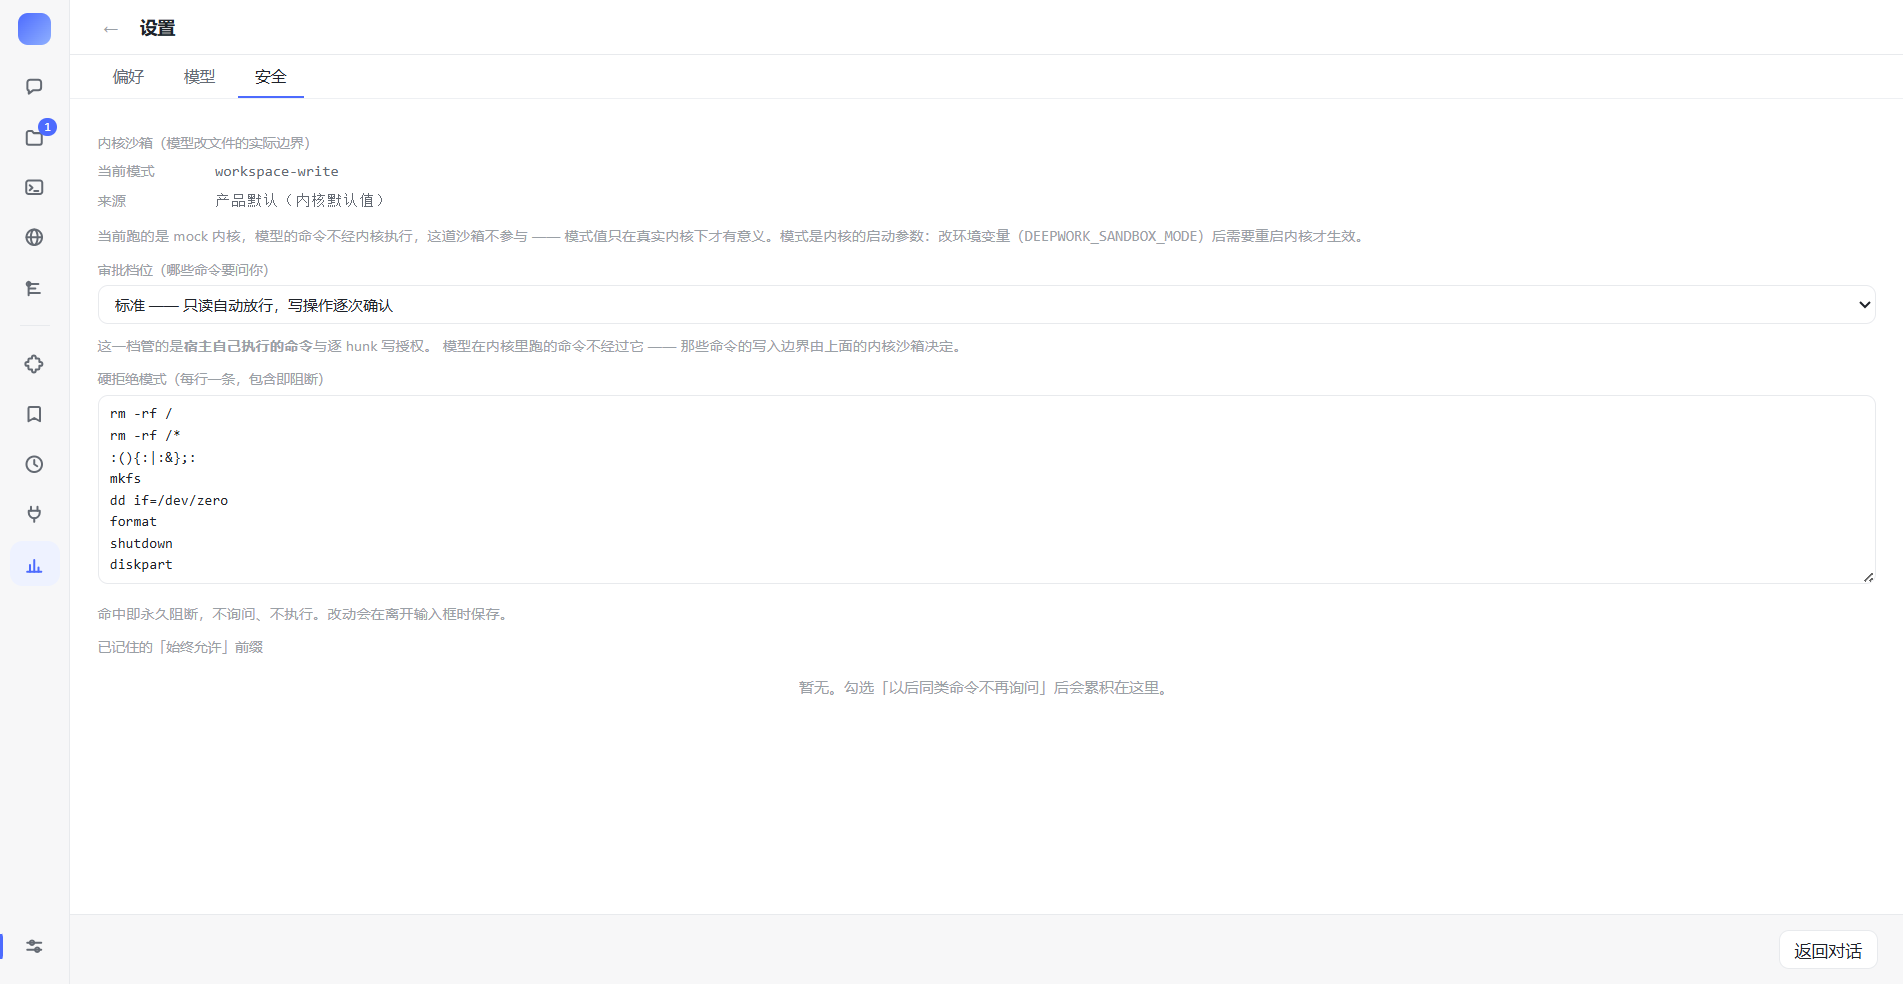
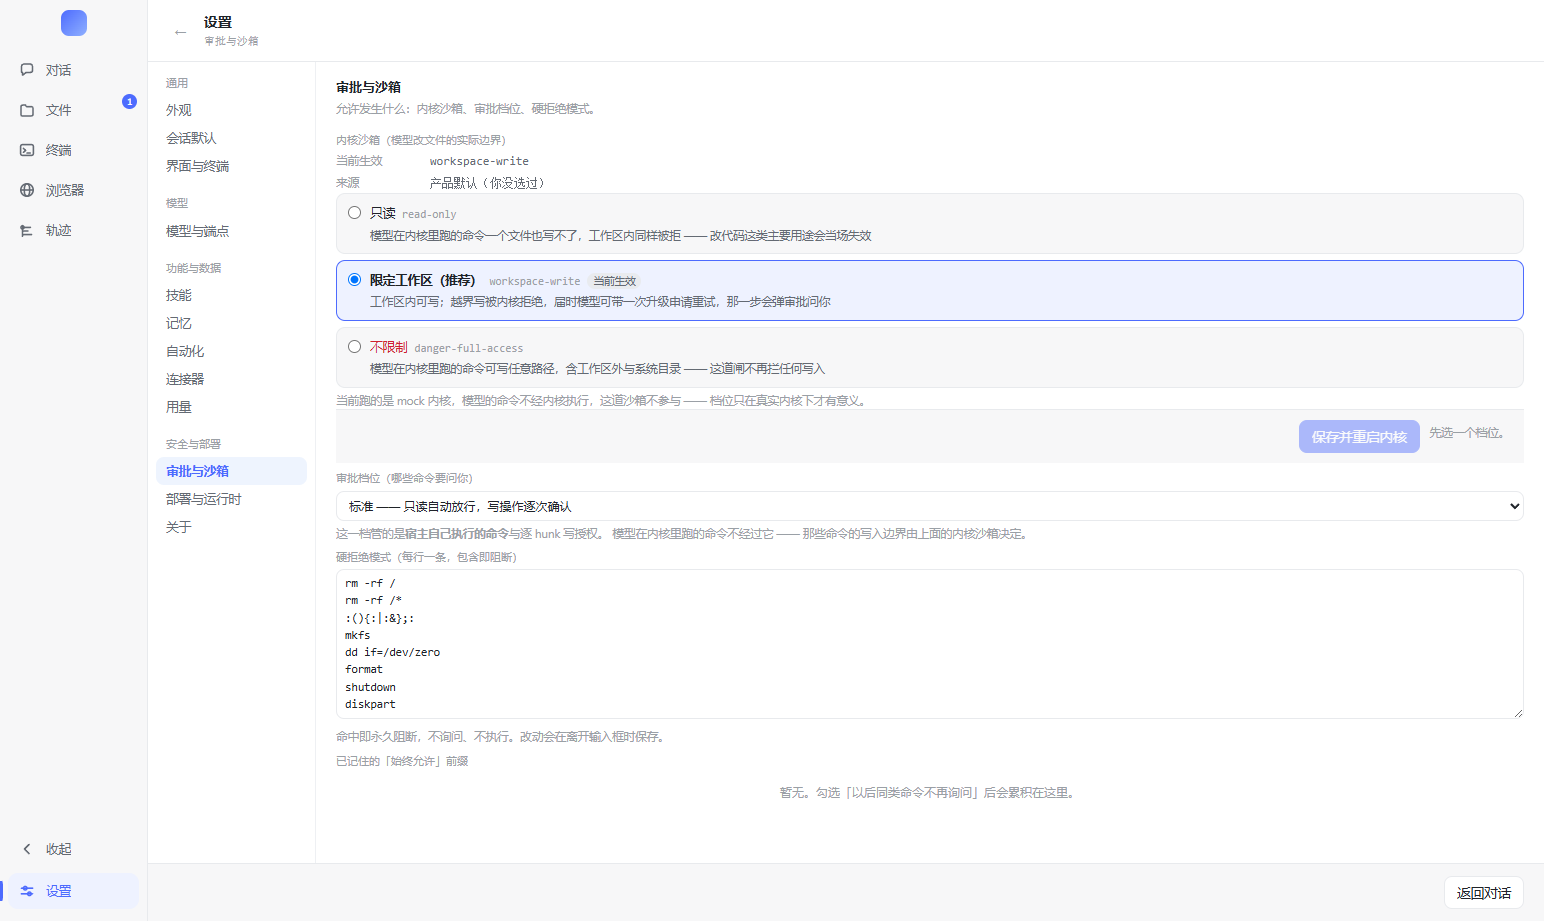
docs: 本轮六段 DEVLOG + 布局纪律改写 + ROADMAP §8.8 第二项收口
- `CONVENTIONS.md`「界面布局纪律」整段改写：rail 只放工作台视图、管理类进设置页、
  一页一个入口、`embedded` 只收外壳、`lastView` / `settingsSection` 各留一条恢复纪律，
  以及新增的**「契约值域收窄时读的路径折回、写的路径拒绝」**。
- `ROADMAP.md` §8.8 第 2 项：⏳ 未开始 → ✅ 完成（附分组与 12 节清单、`AppView` 收窄口径、
  新套件 35 项）。
- `DEVLOG.md` 本轮六段：目标 / 现象与根因（值域收窄那条静默失败）/ 改动表 /
  顺带修掉的 CSS 变量缺陷 / 验证（35 项 + verify exit 0 + 九张截图回执）/
  踩坑与教训 / 遗留 / 下一步。
- 截图入库（`artifacts/` 在 .gitignore 里，需 `-f`）：本轮 DEVLOG 引用的九张渲染证据
  `ui-settings` / `ui-settings-prefs` / `ui-settings-security` / `ui-terminal-shell` /
  `ui-skills` / `ui-memory` / `ui-schedule` / `ui-connectors` / `ui-usage`
  （外加上一轮引用但当时没入库的 `ui-terminal.png`，补上这条追不到证据的引用）。

diff --git a/docs/DEVLOG.md b/docs/DEVLOG.md
@@ -3774,3 +3774,116 @@ bash tools/capture.sh terminal terminal-shell
 连接器 / 用量这些**管理类页面**从活动栏一级入口收进设置；活动栏只留工作台四项
 （对话 / 文件 / 终端 / 浏览器 / 轨迹）。收完之后再做流式的观感优化。
 
+## 2026-09-18 · M3 前置 · 设置改左导航分组：管理类页面收进设置，活动栏只剩工作台
+
+**目标**
+
+用户拍板的顺序是 **先终端 → 再设置 → 最后流式**，上一轮交完终端，本轮做第二件：
+设置页的摆布改成参考形态（左导航分组），并把技能 / 记忆 / 自动化 / 连接器 / 用量
+这些**管理类页面**从活动栏一级入口收进设置 —— 活动栏只留工作台
+（对话 / 文件 / 终端 / 浏览器 / 轨迹）+ 底部的设置。用户的另一句话是
+「有些指令就是配置项，应该转到设置中去」。
+
+**现象与根因**
+
+活动栏分两组已经很挤：上组「正在发生什么」是天天点的，下组「配置与账本」是
+偶尔来配一次的，两者挤同一根栏的代价是栏随功能增长而变长 —— 而这根栏当初被选中
+的理由恰恰是「第 10 个功能与第 1 个占用同样空间」。设置页那边则是另一种挤：
+顶部三页签（偏好 / 模型 / 安全）装得下三节，装不下要收进来的五节。
+
+收窄 `AppView` 引出一条**升级路径上的静默失败**，这是本轮最该记住的一条：
+
+- 一台机器上的 `config.json` 是上一版写的，里面存着 `"lastView": "skills"`。
+  `getConfig` 只做「默认值 + 磁盘值」的按字段合并 —— 这能兜住**少字段**，
+  兜不住**值域变窄**。原样交给渲染层的结果是：启动后主区**一片空白**，
+  没有任何报错，原因只写在配置文件里。用户能看到的只有「界面坏了」。
+
+**改动**
+
+| 位置 | 内容 |
+|---|---|
+| `packages/protocol/src/config.ts` | `AppView` 收窄为 `APP_VIEWS`（六个，含 settings）；新增 `isAppView()`；新增设置分节契约：`SETTINGS_SECTIONS`（12 节）/ `SETTINGS_GROUPS`（4 组）/ `SETTINGS_SECTION_LABEL` / `SETTINGS_SECTION_NOTE` / `DEFAULT_SETTINGS_SECTION` / `isSettingsSection()`；`AppConfig.settingsSection` + `DEFAULT_CONFIG`；`CONFIG_FIELDS.lastView.values` 改用 `APP_VIEWS`（原来是手抄一份视图名清单 —— 第二份真源） |
+| `packages/core-host/src/host.ts` | `getConfig`：磁盘上的 `lastView` / `settingsSection` 不合法时**折回**默认并在日志里点名（容忍手改过的旧文件）；`setConfig`：两者不合法时**拒绝**，错误里写清合法值与「这一页去哪了」 |
+| `apps/desktop/src/components/SettingsNav.tsx` | **新增**：左导航。分组与条目名全部从契约渲染，JSX 里一个字符串都没有 |
+| `apps/desktop/src/components/SettingsPanel.tsx` | 从「三页签 + 一大坨 JSX」重写为「左导航 + 12 节」；原来的偏好页拆成 `AppearanceSection` / `SessionSection` / `InterfaceSection`，安全页整块挪进 `SecuritySection`（连同沙箱草稿态与拒绝模式草稿 —— 那些状态本来就只属于那一节），新增 `AboutSection`；五个管理面板由 App 通过 `panels` 注入 |
+| `apps/desktop/src/components/ActivityRail.tsx` | 去掉下组与五个管理类图标，只留工作台五项 + 设置；注释改写为「不要再往栏上加管理类入口」 |
+| `apps/desktop/src/App.tsx` | `openView` 与新增的 `openSettings(section)` 合成一张 `refreshTarget` 刷新表（视图名与分节名取值域不相交）；五个管理面板在 App 里构造并标 `embedded`；顶栏的「上下文 / 用量」与输入框旁的「技能」都改成 `openSettings(...)`；分节的恢复沿用视图恢复那一套 ref 纪律 |
+| 五个面板 + `PanelPage.tsx` | 新增 `embedded` 形态：不渲染页头与页脚里的「返回对话」（`PanelPage` 额外把 `actions` 挪到内容顶部，否则用量页的「刷新」会跟着页头一起消失），容器从 `page-mask` 换成 `panel-embed`。**页体一字不改** |
+| `apps/desktop/src/styles.css` | 新增 `.settings-body` / `.settings-nav*` / `.settings-content` / `.settings-sec-*` / `.panel-embed*`；顺手修掉一处真缺陷（见下） |
+| `tools/settings-nav-test.js` | **新增** 35 项断言，挂进 `verify-all.js` 的 `SUITES` 与 `package.json` 的 `verify:strict`（新增套件必须同时改这两处） |
+| `tools/capture.sh` | 五个管理类场景从「点 rail」改成「开设置 + 按左导航文字点那一节」；`settings` / `settings-prefs` / `settings-security` / `terminal-shell` 四个场景的选择器从 `.page-body` / `.settings-tabs` 换成 `.settings-nav` / `.settings-content` |
+
+**顺带修掉的一处真缺陷：一个从未定义过的 CSS 变量**
+
+终端 shell 档位徽标的底色写的是 `var(--surface-2)` —— 这份样式表里从来没有这个变量。
+CSS 对未定义变量**不报错**，只是那一行静默失效，于是徽标一直没有底色
+（看上去「样式就是这么设计的」）。它活过了一整轮验收，因为没有任何断言会去看
+「用到的变量是否有定义」。本轮新增的 `settings-nav-test` 里那条断言（把样式表里
+所有 `var(--x)` 抓出来，逐个核对是否有定义）当场把它揪了出来，底色改用 `--bg-2`
+（与 rail 胶囊、用量按钮同一档）。
+
+另有一处**新写出来的**同类问题也是截图发现的：节标题用的是 `<span>`，默认行内，
+第一版截图里标题与说明挤在同一行（「模型与端点模型推理能力从哪来：…」）——
+改成两行（`.settings-sec-head` 用 flex column）。这条印证了老规矩：
+**回执（`items:12 on:模型与端点 groups:…`）能证明接线对不对，证明不了排版好不好**。
+
+**验证**
+
+```
+node tools/settings-nav-test.js   # 35/35 通过（新套件，已挂进 verify-all 与 verify:strict）
+npm run typecheck                 # protocol / core-host / desktop 三处全过
+npm run verify                    # exit 0 —— 31/32 绿 + 1 个已知环境性（browser）
+                                                  ^ 本轮从 30 涨到 31：real-dsh-mcp 这次真绿了
+bash tools/capture.sh settings settings-prefs settings-security terminal-shell \
+                      skills memory schedule connectors usage
+  ui-settings          → items:12 on:模型与端点 groups:通用/模型/功能与数据/安全与部署
+  ui-settings-prefs    → model:(跟随) options:2 effort:2
+  ui-settings-security → sandbox:"当前生效 workspace-write 来源 产品默认（你没选过）" guard:["normal"]
+  ui-terminal-shell    → chips:PowerShell/命令提示符 (cmd)/Git Bash（与 Linux 一致） on:PowerShell
+  ui-skills            → skill:demo-notes
+  ui-memory            → entry:所有项目的提交信息用中文书写
+  ui-schedule          → task:每周晨会纪要
+  ui-connectors        → connector:fs-local
+  ui-usage             → total:69.3k | warn:共 10 轮里有 2 轮没有任何用量数据…
+```
+
+新套件的 35 项断言分三段：**契约**（视图收窄后五个旧视图名必须都不在 `APP_VIEWS`、
+并且都各有对应分节；`SETTINGS_GROUPS` 覆盖 `SETTINGS_SECTIONS` **恰好一次** ——
+漏掉的那一节在设置页里永远打不开，重复的那一节会让导航出现两个同名条目）、
+**宿主**（旧 `lastView` 被拒绝的报错要点名它去哪了；手写的旧 `config.json` 要被折回
+且只动这两个键、不改写磁盘）、**渲染层接线**（活动栏的视图清单必须等于契约里的
+工作台视图；活动栏不再出现任何管理类视图名；五个面板都以内嵌形态挂载；
+样式表里用到的每个变量都有定义）。
+
+**踩坑与教训**
+
+1. **值域收窄是「兼容性」这件事里最容易被漏掉的一半。** 按字段合并默认值只能兜住
+   少字段，兜不住旧值 —— 而两者的失败表现完全不同：前者无感，后者是主区空白。
+   规矩因此定死两条：读的路径折回（并留痕），写的路径拒绝（并说清去处）。
+2. **同一件事有两个入口，缺陷就会只在其中一个入口可见。** 技能曾经既是 rail 上的
+   视图、又是输入框旁的按钮，各自渲染外壳。本轮把它们统一成「进设置并定位到那一节」，
+   面板外壳只有一份实现 —— 这也是 `embedded` 只收外壳、页体一字不改的原因。
+3. **「新写出来的」和「早就写坏的」一样需要断言。** 拼错变量名、行内元素忘了分列，
+   这两类问题都不会报错、也不会让任何测试变红，只能靠断言与截图分工去抓：
+   断言管「结构关系」（集合覆盖、同源、变量有定义），截图管「长什么样」。
+4. **并行改同一个文件会丢改动。** 本轮有两次「工具报告成功、文件其实没变」
+   （同一文件的两个编辑在同一批里发出去，后者按旧快照写回，把前者覆盖掉），
+   还有一次 `EBUSY`。处置：**同一个文件的编辑一律串行发**，改完立刻用 `grep` 核对，
+   不靠「成功」这两个字。
+
+**遗留**
+
+- **设置页没有搜索**。12 节 × 各自的若干项之后，找一项要按分组逐节翻。参考形态有搜索框，
+  本轮没做（要先想清楚「搜的是条目还是分节」）。
+- **`settingsSection` 没有设置页内的默认入口**：只有「上次打开的是哪一节」这一种恢复，
+  没有「每次打开都回到某一节」的偏好项（`lastView` 有对应的下拉，分节没有）。
+- **`.settings-tabs` 仍在使用**（记忆面板的三层切换）。它与左导航长得不同、语义也不同，
+  但两套「切换」控件并存这件事本身值得下次留一眼。
+- **流式输出仍未做**（用户排第三）。内核 ACP 桥只转发**已提交**的整块消息，没有 delta
+  级事件；真正的 token 级流式要走 `dsh-client-connection`（需 dsh Host + HTTP/WS）。
+
+**下一步**
+
+流式的**观感优化**：在传输层不动的前提下，把「等一会儿然后整段出现」做成可感知的
+进行中 —— 块级打字机追加 + 活动指示（计时 / 脉冲光标 / 思考态）。
+

diff --git a/docs/CONVENTIONS.md b/docs/CONVENTIONS.md
@@ -126,25 +126,59 @@ fixture agent**是两件事：
 - Windows 上 npm 安装的 CLI 实际是 `dsh.cmd`，直接 `spawn('dsh')` 会 ENOENT，
   而症状只是「内核起不来」。
 
-### 界面布局纪律（M2-J 起）
+### 界面布局纪律（M2-J 起；2026-09-18 收窄入口）
 
-**功能入口只有一处：左侧活动栏（rail）。** 新增一个功能页 = `AppView` 加一项 + `APP_VIEW_LABEL`
-加一行 + rail 加一个图标 + 主区加一个分支。**不要在标题栏再加按钮** —— 横排按钮的宽度随
-功能数量增长，加到第八个时只能换行，把标题挤成一列字（这正是这次重构的原因）。
+**活动栏（rail）只放工作台视图，管理类收进设置页。** 工作台 = 对话 / 文件 / 终端 /
+浏览器 / 轨迹（`APP_VIEWS` 前五项），加固定在底部的设置。技能 / 记忆 / 自动化 /
+连接器 / 用量**不是视图**，是设置页里的分节（`SETTINGS_SECTIONS`），入口只有
+「设置 → 对应那一节」。理由是使用频率差一个数量级：把「天天点的」和「偶尔来配一次」
+放进同一根栏，栏会随着功能增加一直变长，而它本来是为了「第 10 个功能与第 1 个占用
+同样空间」才存在的。
+
+**新增一个功能页 = 先回答它是工作台还是设置**：工作台 → `APP_VIEWS` 加一项 +
+`APP_VIEW_LABEL` 加一行 + rail 加一个图标 + 主区加一个分支；管理类 → `SETTINGS_SECTIONS`
+加一项 + `SETTINGS_GROUPS` 里挂到某个分组 + 设置页加一块内容（面板记得支持 `embedded`）。
+`tools/settings-nav-test.js` 会挡住「契约收了、rail/导航忘了改」——
+这类改动的失败形态全是静默的：漏掉的那一节在设置页里**永远打不开**，
+而它的面板代码、配置项、测试全都还在。
+
+**一页一个入口。** 技能 / 用量这类面板只有设置页里那一个挂载点；
+输入框工具行与顶栏上的按钮不另开页面，而是 `openSettings('skills')` 这样
+「进设置并定位到那一节」。两个入口、两套外壳的代价是同一个缺陷只在其中一个入口可见 ——
+而用户不会两个都试一遍。这条路曾经真的走偏过：技能既是 rail 上的 `skills` 视图、
+又是输入框旁边的按钮，两边各自渲染外壳。
+
+**管理类面板支持 `embedded`。** 面板的整页外壳（`.page-mask` / `.page-head` /
+页脚里的「返回对话」）在设置页里是重复的，所以嵌进去时由面板自己收掉外壳、
+只交出页体（见 `panel-embed`）。**页体一字不改** —— 任何「嵌进来时少显示一点」
+的写法都会让同一个缺陷只在其中一个入口可见。同样的道理适用于 `.settings-tabs`：
+它留给记忆面板的分层用（同一层里切三种东西），不再用来切「设置的大节」。
 
 **管理类是整页，审批是弹窗，这条界线不要模糊。** 弹窗的语义是「打断当前动作，处理完再回来」，
 它适合审批（`ApprovalDialog` 是界面上唯一的弹窗）。技能 / 记忆 / 自动化 / 连接器 / 用量 / 设置
 是用户**专门去管理**的页面：塞回弹窗会同时引入两个问题 —— 可用面积被压到 620px 宽，
 以及背后那些「看起来还在、其实点不到」的元素。
 
-**视图落盘在 `config.lastView`。** 旧的 `sidePanel`（none/tree/terminal）已被它取代；
-`getConfig` 按字段合并默认值，旧 config.json 少这个键就走默认 `chat`，不需要迁移脚本。
-渲染层不自己记「上次在哪」，否则与 config 各说一套。
+**视图落盘在 `config.lastView`，设置分节落盘在 `config.settingsSection`。**
+旧的 `sidePanel`（none/tree/terminal）已被前者取代；`getConfig` 按字段合并默认值，
+旧 config.json 少这两个键就走默认，不需要迁移脚本。渲染层不自己记「上次在哪」，
+否则与 config 各说一套 —— 恢复时的那条竞争（配置异步到达，把用户刚点的那一页顶掉）
+在 `App` 里用「只恢复一次 + 用户动过就不再覆盖」处理，两个键各自一套 ref。
+
+**契约值域收窄时，读的路径要折回、写的路径要拒绝。** `AppView` 去掉五个值之后，
+一台升级上来的机器 `config.json` 里可能还存着 `"lastView": "skills"`：原样交给渲染层，
+下次启动会停在一个没有对应页面的视图上 —— 主区一片空白，而原因只写在配置文件里。
+所以 `getConfig` 折回合法值（并且在日志里点名），`setConfig` 直接拒绝并在错误里
+说清「它去哪了」。两个方向都要有：只折回不拒绝 = 界面自己可以写出坏值；
+只拒绝不折回 = 手改过的旧文件让界面停在不存在的页面上。
 
 **图标是内联 SVG，不引图标库。** 与「装完就能跑」同源：多一个依赖就多一份体积与供应链面。
+设置页的左导航是纯文字（分组 + 条目），因为多了图标它就要挤占宽度，而那一列只有 168px。
 
-**面板只渲染，不决定何时重新拉数据。** 刷新时机统一在 `App.openView`（`VIEW_REFRESH` 表）
-与事件回调里 —— 否则每个面板会长出自己的刷新策略，出现「同一份数据在不同页面上新旧不一」。
+**面板只渲染，不决定何时重新拉数据。** 刷新时机统一在 `App` 的 `refreshTarget`
+（一张表同时覆盖视图与设置分节）与事件回调里 —— 否则每个面板会长出自己的刷新策略，
+出现「同一份数据在不同页面上新旧不一」。视图名与分节名的取值域不相交，
+所以合成一张表就够；分成两份的理由只能是「它们是两件事」，而它们不是。
 
 ### 用量聚合纪律（M2-J）
 
